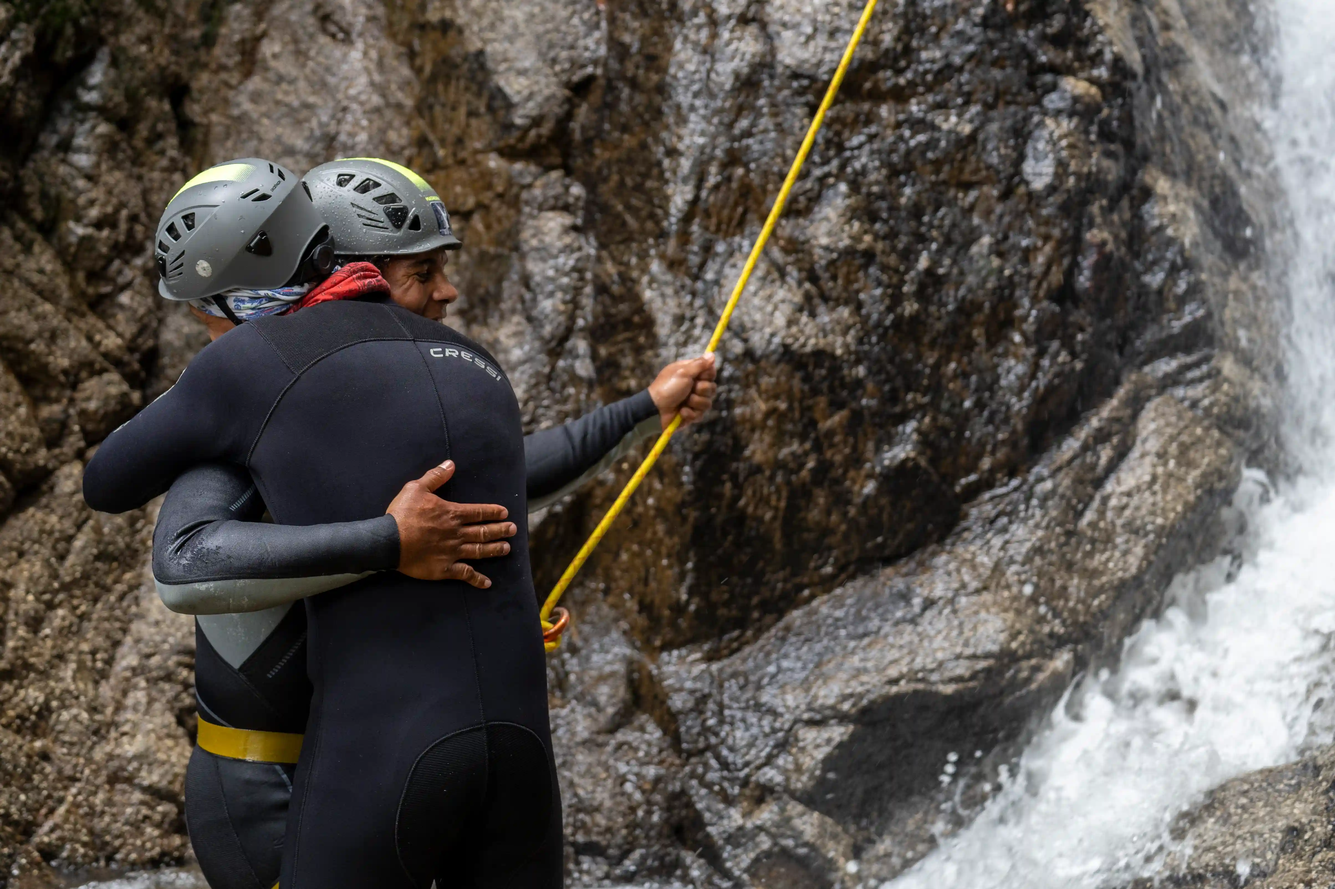
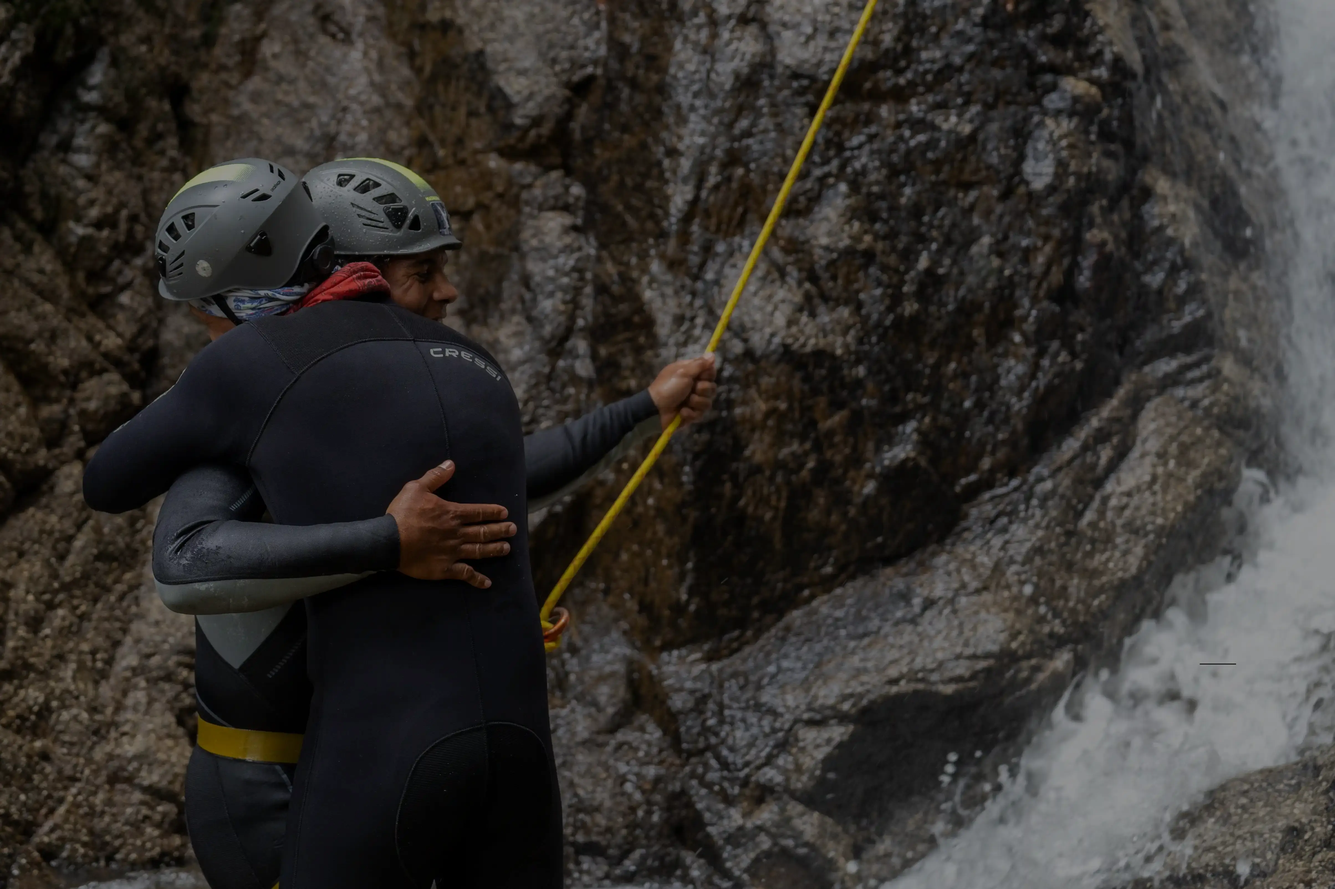
Equipo section finished

diff --git a/pages/index.vue b/pages/index.vue
@@ -1,6 +1,6 @@
 <template>
   <HomeBanner />
-  <GeneralBannerText :model="modelFour" />
+  <GeneralBanner :model="modelFour" />
   <section class="d-flex flex-column ga-sm-0 ga-8">
     <GeneralPresentationCard :model="modelOne" />
     <GeneralPresentationCard :model="modelTwo" />

diff --git a/pages/equipo.vue b/pages/equipo.vue
@@ -2,7 +2,7 @@
 <v-container fluid class="pa-0 mb-8">
   <v-row>
     <v-col cols="12">
-      <GeneralBannerText :model="info"/>
+      <GeneralBanner :model="info"/>
     </v-col>
   </v-row>
 
